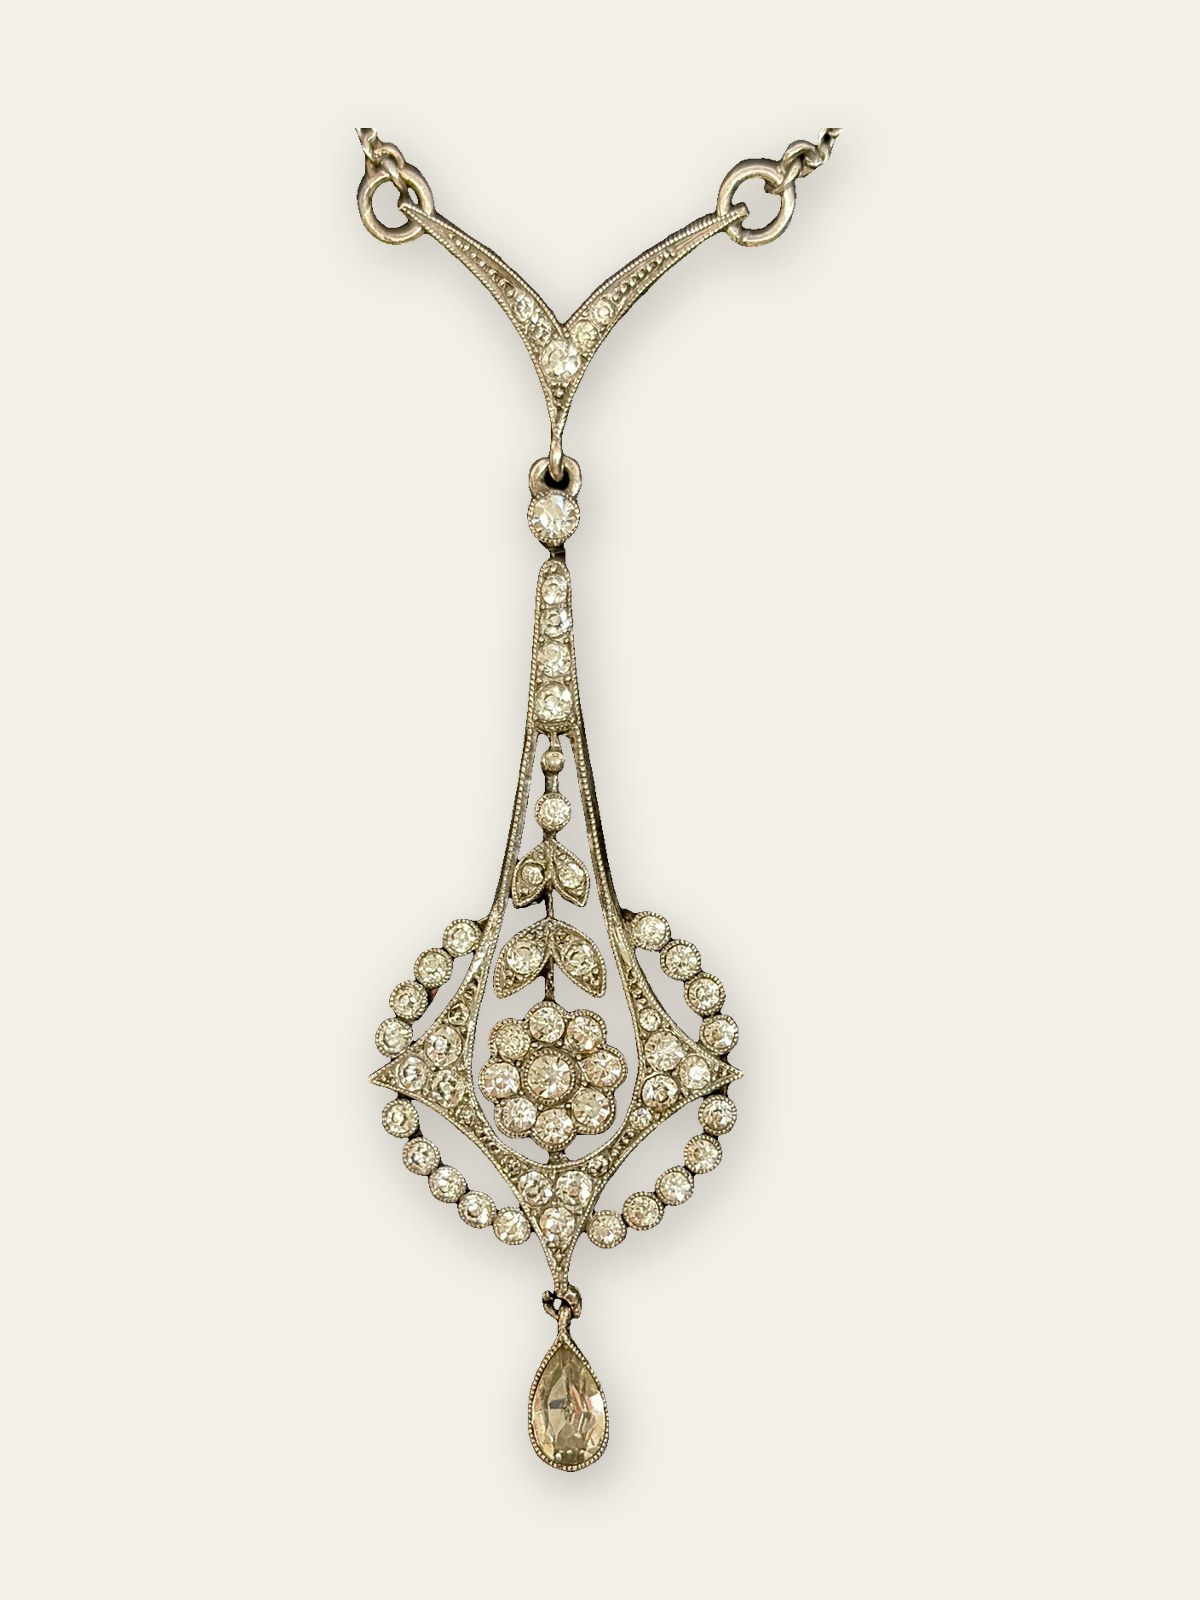
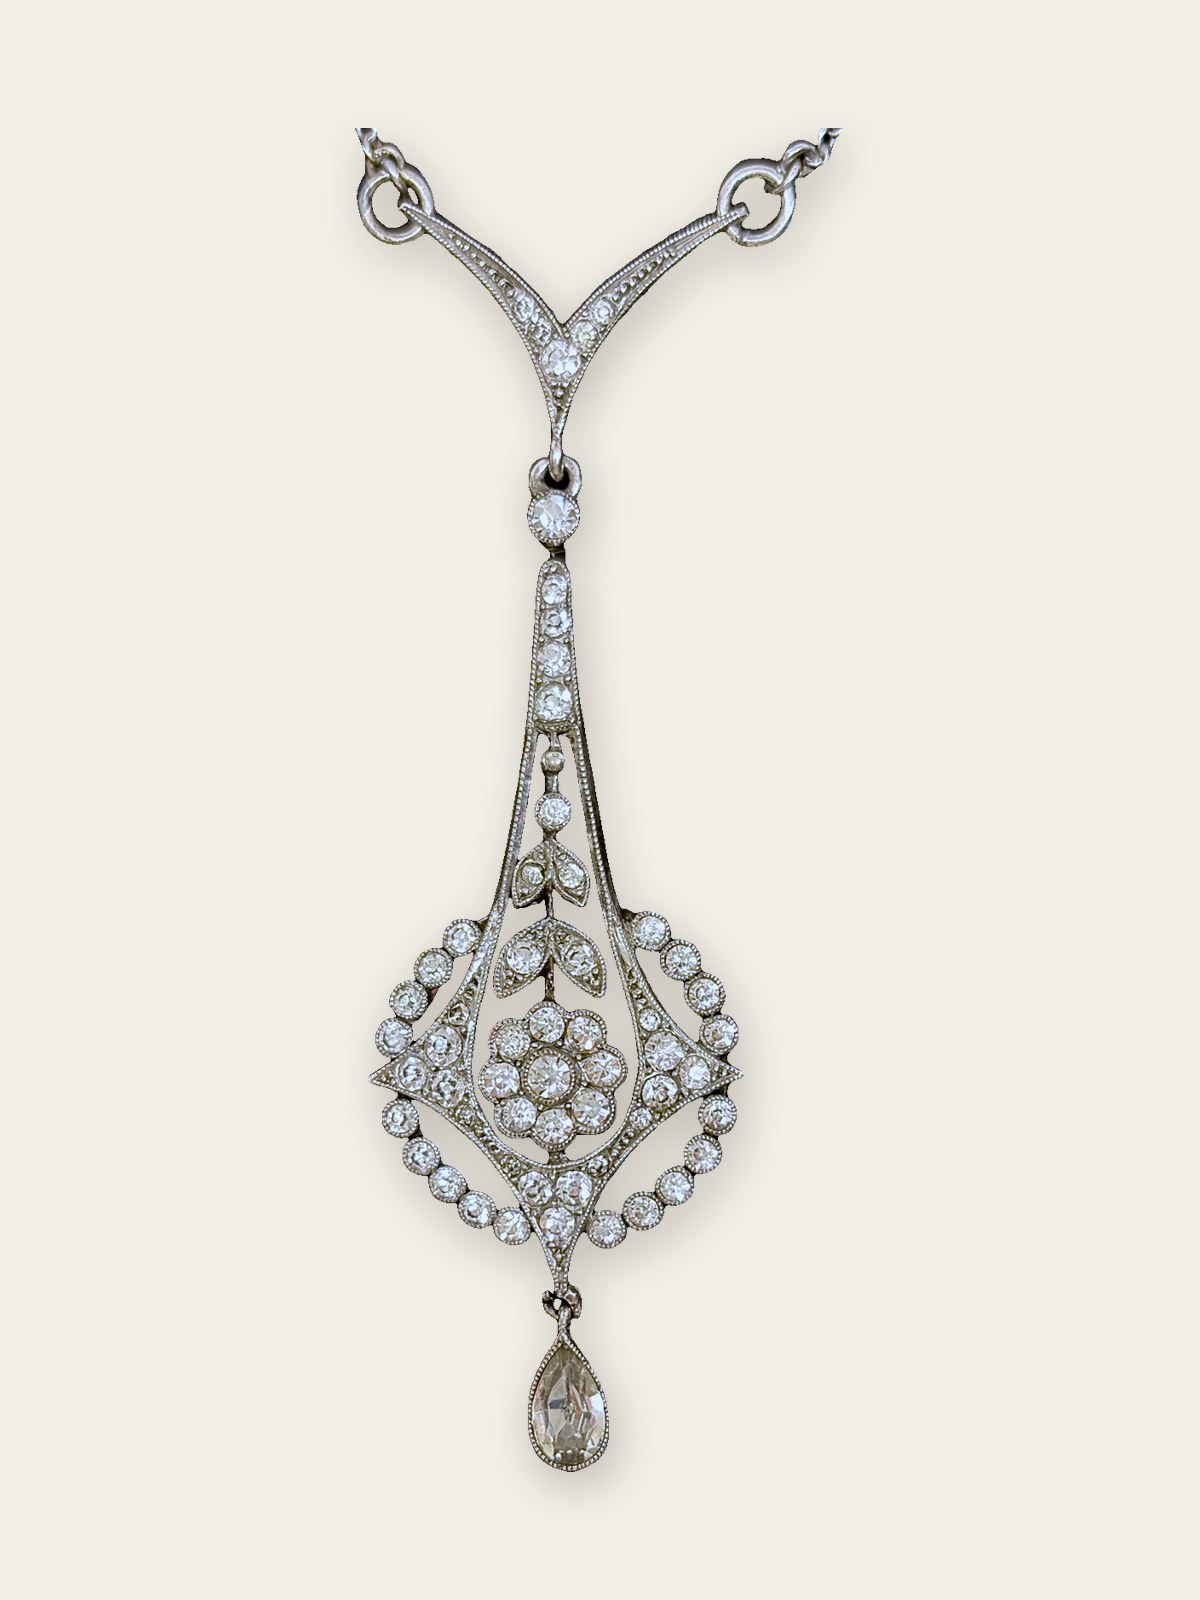
Fit the phone lightbox to one screen, tidy the gallery and chronicle pages
- On phones the lightbox image is sized so that title, description and
  button fit on one screen (checked on 375x667, 390x844 and 430x932 for
  every item); it scrolls only if they cannot
- Gallery page drops its sentence and divider; the grid starts under the
  navigation
- Chronicle cards show the title above the image
- t018 (the Edwardian pendant) gets an object-only white balance; the
  script gains NEUTRALIZE and STANDARD_BG/STANDARD_OUT overrides for tests

Claude-Session: https://claude.ai/code/session_0146WwfpqSoST3wS5kAsYEcA

diff --git a/assets/site.css b/assets/site.css
@@ -65,7 +65,7 @@ body{font-family:'Noto Sans SC',sans-serif;background:var(--bg-primary);color:va
 .chronicle-card .card-img{width:100%;aspect-ratio:1/1;overflow:hidden;background:var(--bg-warm);}
 .chronicle-card .card-img img{width:100%;height:100%;object-fit:cover;transition:transform 0.6s;}
 .chronicle-card:hover .card-img img{transform:scale(1.03);}
-.chronicle-card .card-info{padding:14px 16px;}
+.chronicle-card .card-info{padding:14px 16px 12px;border-bottom:1px solid var(--border-light);}
 .chronicle-card .card-title{font-family:'Noto Serif SC',serif;font-size:17px;font-weight:600;color:var(--item-title);line-height:1.7;}
 .article-modal{display:none;position:fixed;top:0;left:0;right:0;bottom:0;z-index:10000;background:rgba(0,0,0,0.6);backdrop-filter:blur(6px);overflow-y:auto;padding:40px 20px;}
 .article-modal.open{display:block;}
@@ -193,5 +193,11 @@ body{font-family:'Noto Sans SC',sans-serif;background:var(--bg-primary);color:va
   .featured-grid{grid-template-columns:repeat(2,1fr);gap:12px;}.chronicle-grid{grid-template-columns:repeat(2,1fr);gap:12px;}.gallery-grid{grid-template-columns:repeat(3,1fr);gap:6px;}
   .main{padding:0 14px 40px;}.item-info{padding:12px;}.item-title{font-size:15px;}
   .neo-divider{width:70%;}
-  .lightbox{padding:40px 8px;}.lightbox-nav{font-size:44px;padding:20px 8px;}.lightbox-prev{left:0;}.lightbox-next{right:0;}
+  /* phone lightbox: image sized so that title, text and button fit on one screen; scrolls only if they cannot */
+  .lightbox{display:none;padding:52px 12px 20px;overflow-y:auto;justify-content:flex-start;}
+  .lightbox.open{display:flex;}
+  .lightbox img{max-height:min(52vh, calc(100vh - 330px));max-width:100%;}
+  .lightbox-info{margin-top:14px;}.lightbox-title{font-size:19px;}.lightbox-desc{font-size:14px;line-height:1.7;margin-top:6px;}
+  .lightbox-nav{font-size:44px;padding:20px 8px;position:fixed;}.lightbox-prev{left:0;}.lightbox-next{right:0;}
+  .lightbox-close{position:fixed;}
 }

diff --git a/assets/site.js b/assets/site.js
@@ -163,8 +163,9 @@ function renderCollection(key) {
 
 function renderChronicleCard(a, i) {
   return '<div class="chronicle-card" style="animation:fadeIn 0.4s ease ' + (i * 0.06) + 's both" onclick="openArticle(\'' + a.id + '\')">' +
+    '<div class="card-info"><div class="card-title">' + a.title + '</div></div>' +
     (a.image ? '<div class="card-img"><img src="' + a.image + '" alt="' + a.title + '" loading="lazy"></div>' : '') +
-    '<div class="card-info"><div class="card-title">' + a.title + '</div></div></div>';
+    '</div>';
 }
 
 function renderChronicles() {
@@ -205,9 +206,7 @@ function renderGallery() {
   for (let i = items.length - 1; i > 0; i--) { const j = Math.floor(Math.random() * (i + 1)); [items[i], items[j]] = [items[j], items[i]]; }
   lightboxIds = items.map(i => i.id);
   document.getElementById("page").innerHTML =
-    '<div class="type-statement cabinet-intro" style="padding-top:28px">搁置类别与年代，让器物在偶然的邻接中互相说明</div>' +
-    divider +
-    '<div class="gallery-grid">' +
+    '<div class="gallery-grid" style="padding-top:24px">' +
       items.map(i => '<div class="gallery-item" onclick="openLightbox(\'' + i.id + '\')"><img src="' + i.image + '" alt="' + i.title + '" loading="lazy" onerror="this.parentNode.style.display=\'none\'"></div>').join("") +
     '</div>';
 }

diff --git a/tools/standardize.py b/tools/standardize.py
@@ -18,7 +18,8 @@ import numpy as np
 from PIL import Image, ImageFilter, ImageOps
 
 ROOT = os.path.dirname(os.path.dirname(os.path.abspath(__file__)))
-BG = (243, 240, 232)          # warm white, close to the site's --bg-warm
+BG = tuple(int(v) for v in os.environ.get("STANDARD_BG", "243,240,232").split(","))   # warm white by default
+OUT_ROOT = os.environ.get("STANDARD_OUT", ROOT)       # where the standard files are written (tests only)
 RATIO = 3 / 4                 # width / height shared by most of the original photographs
 W, H = 1200, 1600             # 3:4 canvas
 FILL = 0.84                   # the object fills this fraction of the limiting dimension
@@ -28,11 +29,21 @@ RATIO_TOL = 0.015            # an original within this of RATIO is only resized
 # Per-item colour ranges (OpenCV HSV, H 0-179) removed from the segmentation mask, for
 # photographs where a second object lay under the item.
 STRIP_COLOUR = {"r015": ((5, 25), 60, 60)}   # tan overcoat under the trench coat
+# Items whose photograph carries a colour cast: the object's average is pulled towards neutral grey.
+NEUTRALIZE = {"t018": 1.0}                    # strength 0..1
 
 
 def items():
     src = open(os.path.join(ROOT, "assets/data.js"), encoding="utf-8").read()
     return re.findall(r'\{ id:"([rt]\d+)".*?image:"/images/([a-z]+)/\1(?:_standard)?\.jpg"', src)
+
+
+def neutralize(rgb, alpha, strength):
+    """Grey-world white balance on the object only, blended by `strength`."""
+    a = np.asarray(rgb).astype(np.float32); m = np.asarray(alpha) > 128
+    mean = a[m].mean(axis=0); gain = mean.mean() / np.maximum(mean, 1)
+    gain = 1 + (gain - 1) * strength
+    return Image.fromarray(np.clip(a * gain, 0, 255).astype(np.uint8))
 
 
 def stretch(rgb, alpha):
@@ -128,7 +139,9 @@ def cut_out(im, iid, session):
     bbox = cut.getbbox()
     if not bbox: raise RuntimeError(f"{iid}: no object found")
     sub = cut.crop(bbox); alpha = sub.split()[3]
-    sub = Image.merge("RGBA", (*stretch(sub.convert("RGB"), alpha).split(), alpha))
+    rgb = stretch(sub.convert("RGB"), alpha)
+    if iid in NEUTRALIZE: rgb = neutralize(rgb, alpha, NEUTRALIZE[iid])
+    sub = Image.merge("RGBA", (*rgb.split(), alpha))
     scale = min(FILL * W / sub.width, FILL * H / sub.height)
     sub = sub.resize((max(1, int(sub.width * scale)), max(1, int(sub.height * scale))), Image.LANCZOS)
     x, y = (W - sub.width) // 2, (H - sub.height) // 2
@@ -152,18 +165,18 @@ def main(argv):
         # detail photographs with a plain background are brought to RATIO as well
         from rembg import new_session; session = new_session(MODEL)
         for cid in chronicle_images():
-            src = os.path.join(ROOT, "images/chronicles", f"{cid}.jpg"); dst = os.path.join(ROOT, "images/chronicles", f"{cid}_standard.jpg")
+            src = os.path.join(ROOT, "images/chronicles", f"{cid}.jpg"); dst = os.path.join(OUT_ROOT, "images/chronicles", f"{cid}_standard.jpg")
             if not os.path.exists(src): continue
             if os.path.exists(dst) and not force: continue
             im = ImageOps.exif_transpose(Image.open(src)).convert("RGB"); im.thumbnail((1600, 1600))
             if im.width > im.height: continue                       # landscape close-ups stay as they are
             mask = object_mask(im, session)
             if not is_plain_background(im, mask): print(f"{cid}: textured background, left as it is"); continue
-            fit_ratio(im, mask).save(dst, quality=88, optimize=True); print(f"{cid}: plain background, fitted to 3:4")
+            os.makedirs(os.path.dirname(dst), exist_ok=True); fit_ratio(im, mask).save(dst, quality=88, optimize=True); print(f"{cid}: plain background, fitted to 3:4")
         return
     for iid, folder in items():
         if wanted and iid not in wanted: continue
-        src = os.path.join(ROOT, "images", folder, f"{iid}.jpg"); dst = os.path.join(ROOT, "images", folder, f"{iid}_standard.jpg")
+        src = os.path.join(ROOT, "images", folder, f"{iid}.jpg"); dst = os.path.join(OUT_ROOT, "images", folder, f"{iid}_standard.jpg")
         if not os.path.exists(src): print(f"{iid}: original missing, skipped"); continue
         if os.path.exists(dst) and not force: continue
         im = ImageOps.exif_transpose(Image.open(src)).convert("RGB"); im.thumbnail((1600, 1600))
@@ -173,7 +186,7 @@ def main(argv):
             out = fit_ratio(im, object_mask(im, session)); how = "background kept, fitted to 3:4"
         else:
             out = cut_out(im, iid, session); how = "cut out"
-        out.save(dst, quality=88, optimize=True); print(f"{iid}: {how} -> {os.path.relpath(dst, ROOT)}")
+        os.makedirs(os.path.dirname(dst), exist_ok=True); out.save(dst, quality=88, optimize=True); print(f"{iid}: {how} -> {os.path.relpath(dst, ROOT)}")
 
 
 if __name__ == "__main__":
